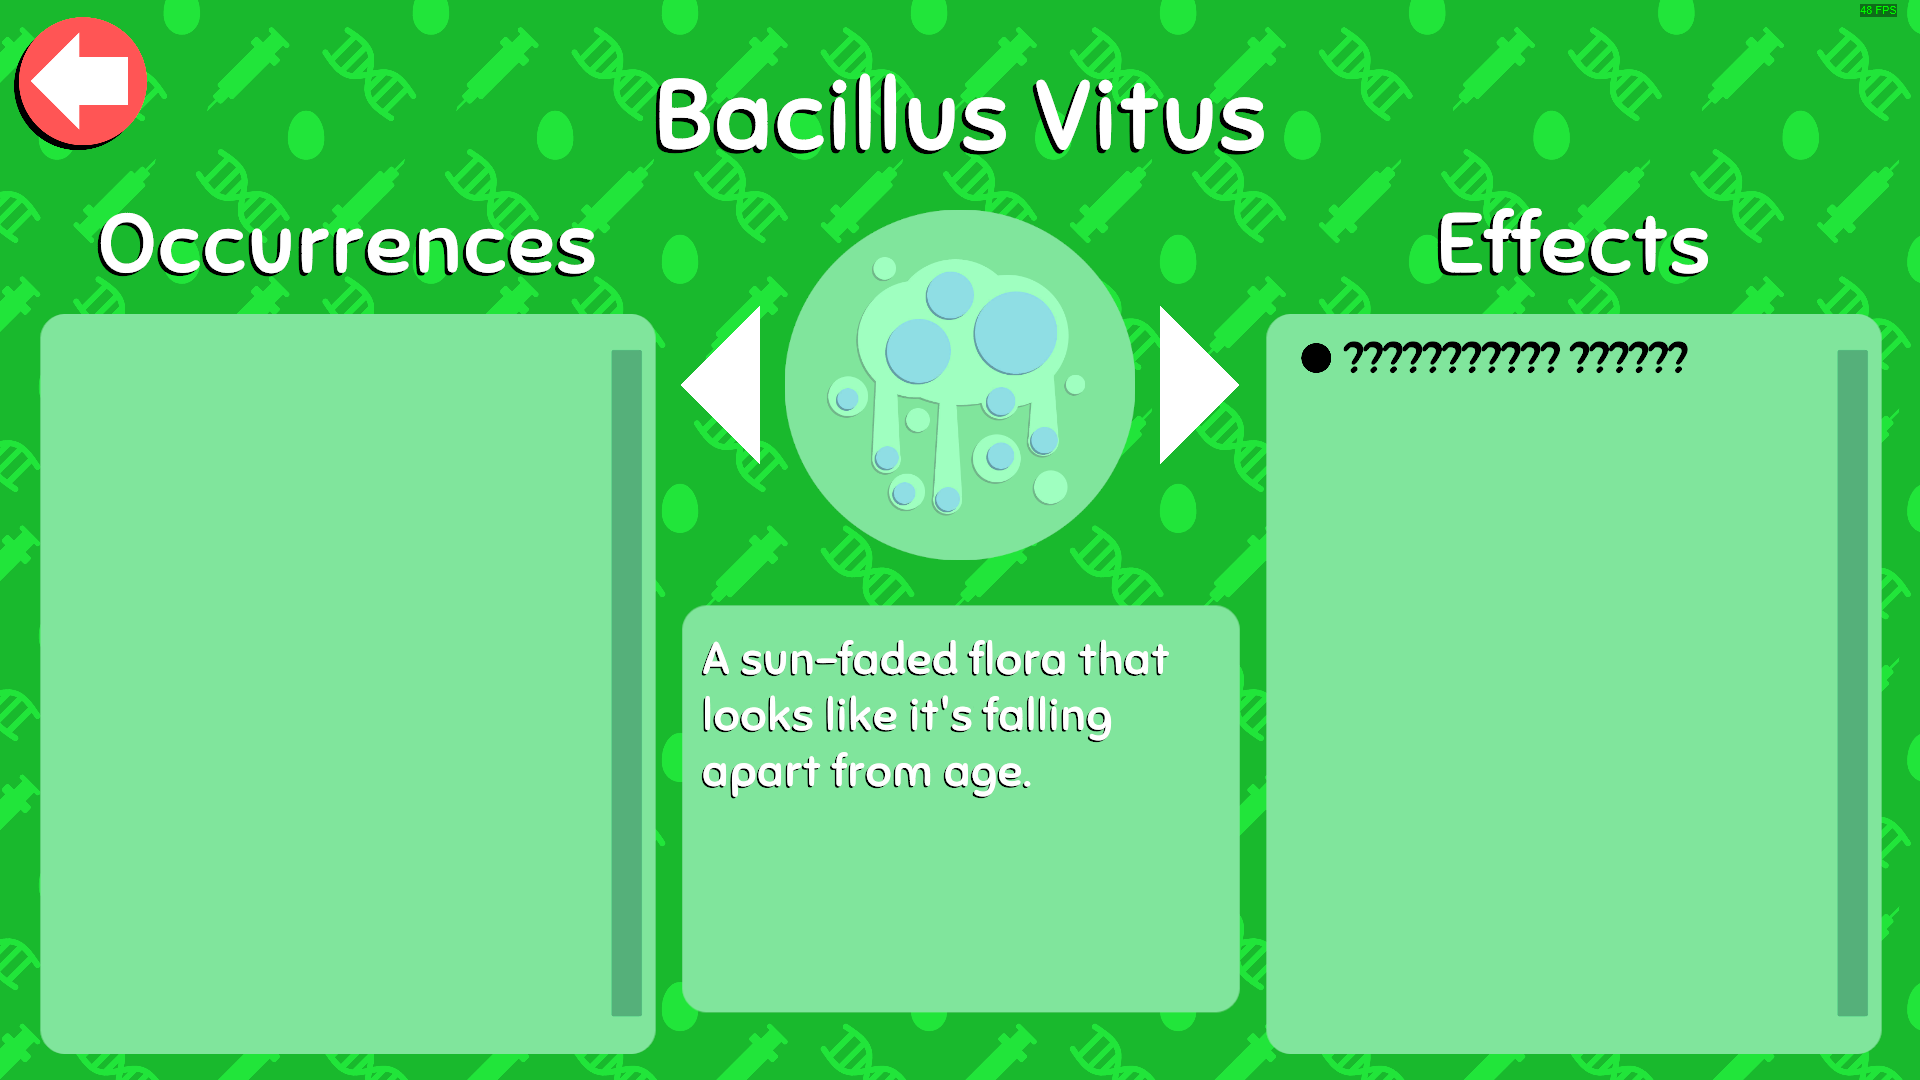
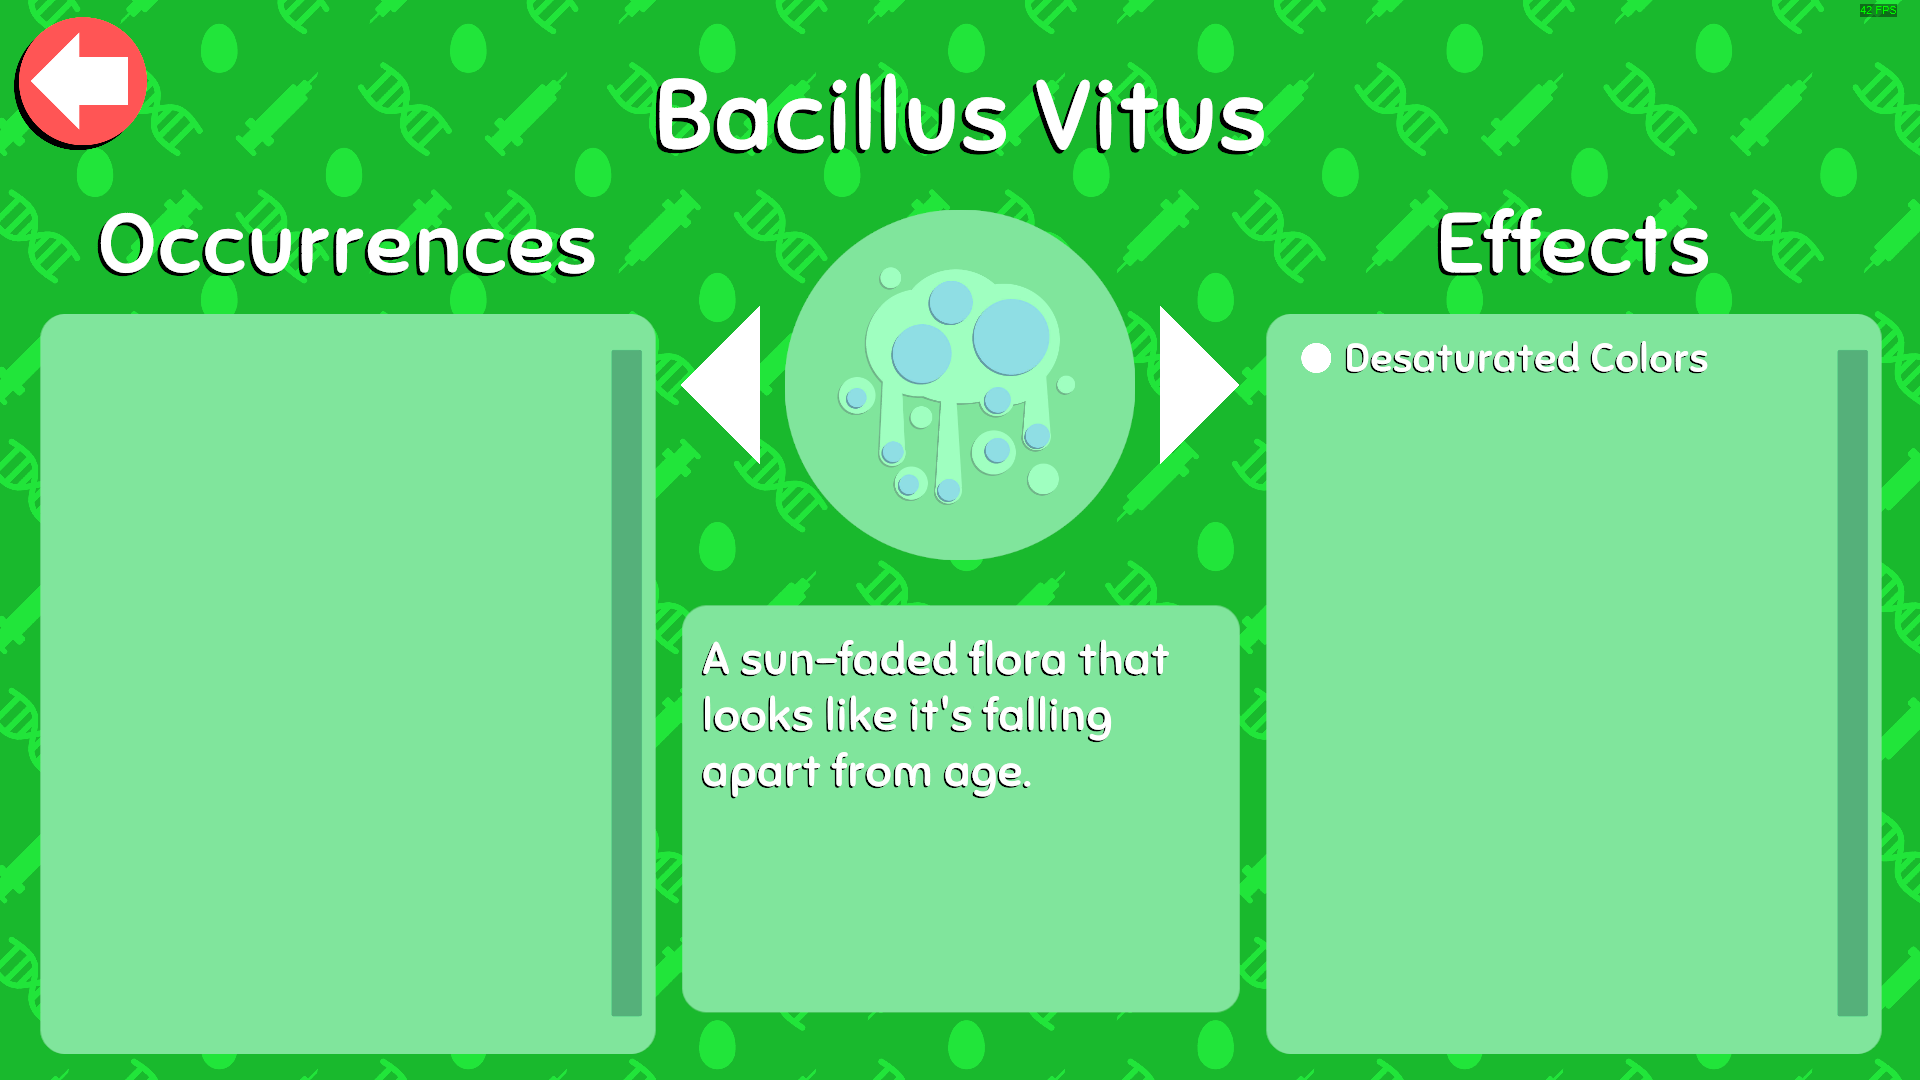
updated bacilus

diff --git a/src/effect.ts b/src/effect.ts
@@ -68,6 +68,7 @@ export const greenBody: Effect = { name: "Green Body" };
 export const darkGreenPattern: Effect = { name: "Dark Green Pattern" };
 export const blackBody: Effect = { name: "Black Body" };
 export const bigWings: Effect = { name: "Big Wings" };
+export const desaturatedColors: Effect = { name: "Desaturated Colors" };
 
 export const effects: Effect[] = [
   unknown,

diff --git a/src/flora.ts b/src/flora.ts
@@ -38,7 +38,7 @@ export const bacillusVitus: Flora = {
   image: "flora_0_2",
   description: "A sun-faded flora that looks like it's falling apart from age.",
   foods: [],
-  effects: [effect.unknown],
+  effects: [effect.desaturatedColors],
   rarities: [circle],
 };
 
